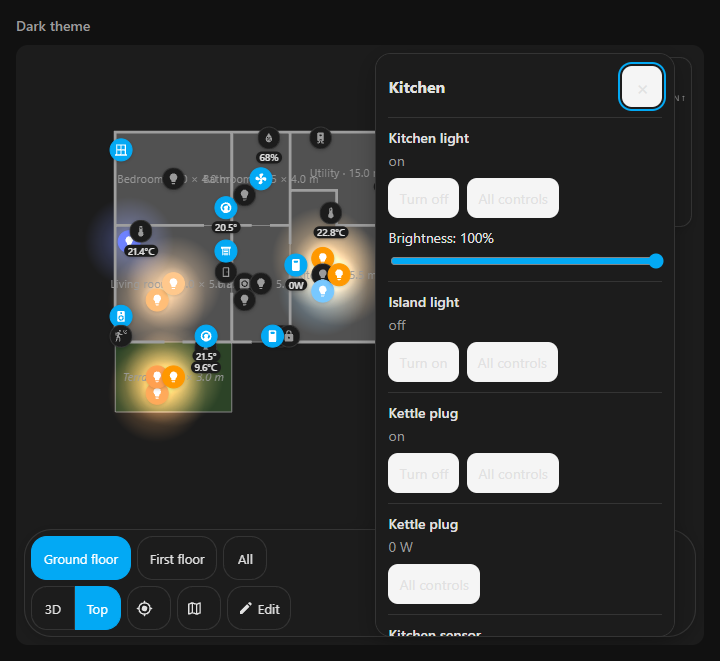
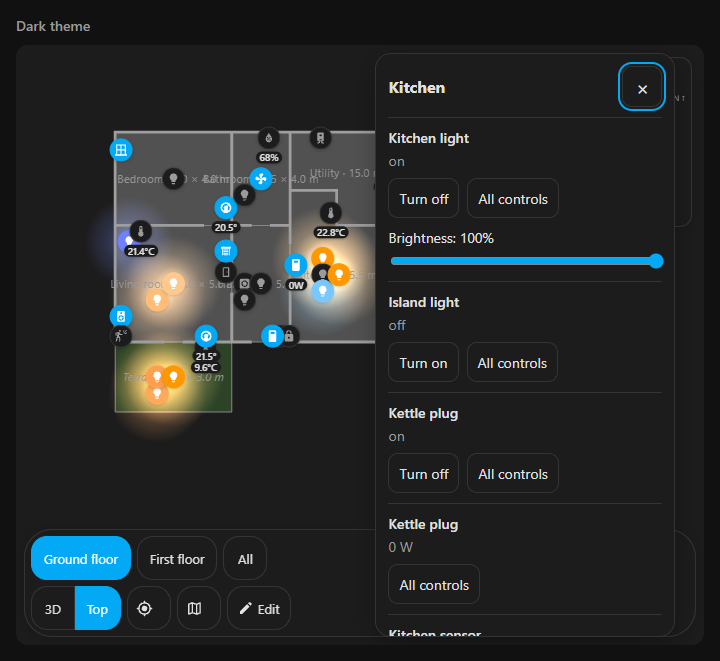
Keep popup controls readable across themes

diff --git a/src/device-popup.js b/src/device-popup.js
@@ -20,7 +20,8 @@ const STYLE = `
   .taylors3d-device-popup .t3d-popup-head { display: flex; align-items: center; gap: 8px; margin-bottom: 10px; }
   .taylors3d-device-popup h3 { margin: 0; flex: 1; font-size: 16px; overflow-wrap: anywhere; }
   .taylors3d-device-popup button { font: inherit; border-radius: 10px; cursor: pointer; min-height: 40px;
-    border: 1px solid var(--divider-color, #ddd); background: var(--secondary-background-color, #f5f5f5);
+    border: 1px solid var(--divider-color, #ddd);
+    background: var(--secondary-background-color, var(--ha-card-background, var(--card-background-color, #f5f5f5)));
     color: var(--primary-text-color, #212121); padding: 6px 10px; }
   .taylors3d-device-popup button:focus-visible, .taylors3d-device-popup input:focus-visible {
     outline: 2px solid var(--primary-color, #03a9f4); outline-offset: 2px; }

diff --git a/REQUIREMENTS_AND_FEATURES.md b/REQUIREMENTS_AND_FEATURES.md
@@ -334,6 +334,8 @@ The same browser checks exposed an initially-Top card restoring an unframed, zer
 
 **Model fixture follow-up:** [the navigation-correction CI run](https://github.com/gregtaylor1993/taylors-3d/actions/runs/37240222216) passed the complete editor/navigation suites and all model checks except the magnetic-drag fixture's lamp lookup, on both attempts. The lamp and model raycast worked; the reserved scene viewport projected a device marker over that small lamp, leaving no exposed pixel at the fixture's old camera angle. The fixture now uses a closer angle that exposes the real lamp, and requires an actual in-bounds canvas hit. Real wall/lamp dragging, attachment, realignment, fallback, Alt-drag and detach assertions remain intact. A complete follow-up CI run is required.
 
+**Final navigation follow-up:** [the next CI run](https://github.com/gregtaylor1993/taylors-3d/actions/runs/37241187536) found that the new room-test helper could choose a ceiling lamp's upward face or nearby device hit area instead of a room floor. The helper now requires the matching room's upward floor and excludes actual mouse-priority device hits; app selection logic was already correct. The complete local navigation suite passes with that stricter choice. Visual review also found light button backgrounds with pale text in a partial dark theme; popup buttons now fall back to the theme's card background. Actual enabled-button contrast is 16.10:1 in light and 13.03:1 in dark, above the 4.5:1 check. Screenshot examples were refreshed. Final complete CI remains to be confirmed.
+
 Local build, lint and all 514 JavaScript tests passed before upload. The full HA Python harness was not run locally; it passed in GitHub.
 
 **Complete when:** diagnosed failures are resolved or precisely documented, and the required integration/card/HACS checks succeed. Do not silence a meaningful check merely to get a green result.
@@ -367,9 +369,10 @@ A feature is Done only after its agreed behavior works, it persists where approp
 |---|---|---|---|
 | 2026-10-04 | Base | Independent renamed base uploaded to `main`; local build/lint/514 JS tests passed; online checks need B02 | `055e30f` |
 | 2026-10-04 | Requirements | Taylor's complete initial feature list recorded; foundations and pending inputs checked against the code | `a2c49d0` |
-| 2026-10-04 | Phase 1 | First bubble bar, room/device panels and mini-map implemented. 571 JS unit tests and lint pass. Existing editor browser checks and the complete new navigation browser suite pass, covering real clicks, correct service payloads, grouped rooms, map floors, keyboard focus, narrow layouts and GLB overlays. Shared-storage/key-change regressions pass. Actual HA/panel testing remains. | Phase 1 commit on `main` |
-| 2026-10-04 | Navigation correction | Fixed immediate drag-to-mini-map drift and initially-Top to 3D framing. Complete navigation browser suite passes, including real active-pan regressions in both modes, unchanged destination tolerances and all GLB overlay checks. GitHub follow-up CI and actual HA/panel validation remain. | Follow-up commit on `main` |
-| 2026-10-04 | Model fixture correction | Exposed the lamp with a closer fixture camera and required a real uncovered canvas pixel. All 15 focused magnetic checks pass, with unchanged tolerances and zero browser errors. App code and navigation controls are unchanged by this correction. Full CI rerun follows. | Follow-up commit on `main` |
+| 2026-10-04 | Phase 1 | First bubble bar, room/device panels and mini-map implemented. 571 JS unit tests and lint pass. Existing editor browser checks and the complete new navigation browser suite pass, covering real clicks, correct service payloads, grouped rooms, map floors, keyboard focus, narrow layouts and GLB overlays. Shared-storage/key-change regressions pass. Actual HA/panel testing remains. | `f42fded` |
+| 2026-10-04 | Navigation correction | Fixed immediate drag-to-mini-map drift and initially-Top to 3D framing. Complete navigation browser suite passes, including real active-pan regressions in both modes, unchanged destination tolerances and all GLB overlay checks. GitHub follow-up CI and actual HA/panel validation remain. | `6e90252` |
+| 2026-10-04 | Model fixture correction | Exposed the lamp with a closer fixture camera and required a real uncovered canvas pixel. All 15 focused magnetic checks pass, with unchanged tolerances and zero browser errors. App code and navigation controls are unchanged by this correction. Full CI rerun follows. | `ec2f581` |
+| 2026-10-04 | Popup and room-test polish | Fixed theme background fallback and confirmed enabled-button contrast in both themes. The complete navigation suite, stricter GLB room taps and all 20 popup unit tests pass. Screenshots updated. | Follow-up commit on `main` |
 
 ### Phase 1: Taylor's Home Assistant check
 
